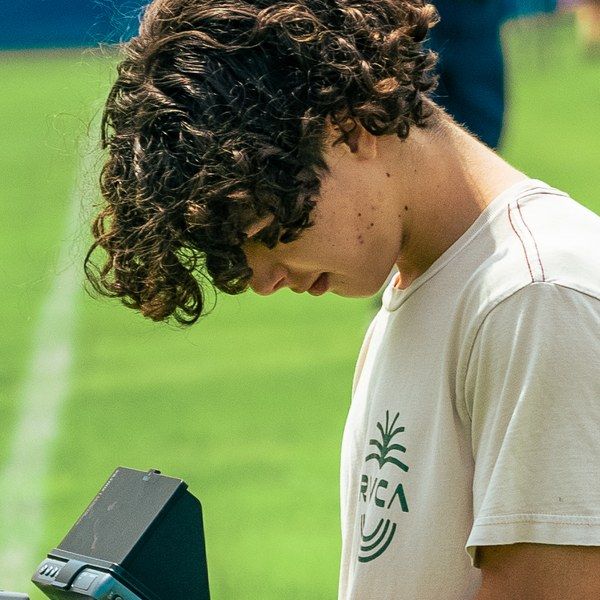
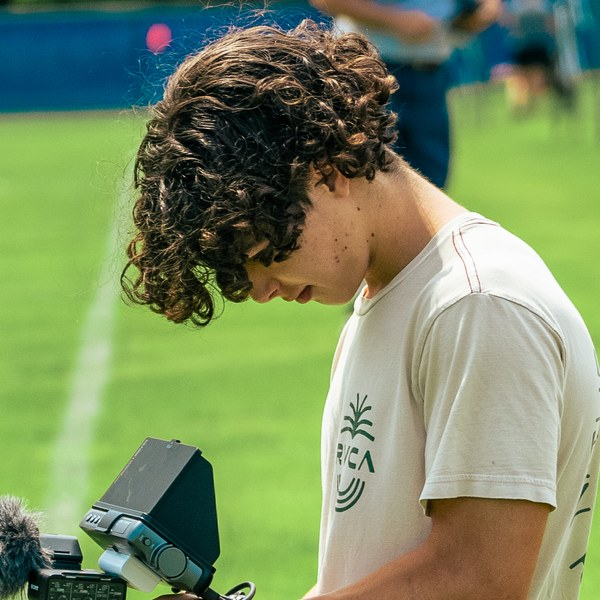
Card: zoom-out face-centered photo + QR overlay
- Re-crop headshot: zoomed out, face centered (was too high)
- Add branded green QR (verified -> /card) with a "Show QR" overlay for
  in-person scanning; fix [hidden] being overridden by display:flex
- Footer now has Show QR + Share outlined buttons

diff --git a/card/index.html b/card/index.html
@@ -193,20 +193,48 @@
   .action .meta{display:flex;flex-direction:column;align-items:flex-start;line-height:1.25;min-width:0;font-size:14px;font-weight:700}
   .action .meta small{font-size:11px;font-weight:500;color:var(--gray);letter-spacing:.01em;overflow:hidden;text-overflow:ellipsis;white-space:nowrap;max-width:100%;text-transform:none}
 
-  .footer{margin-top:22px;display:flex;flex-direction:column;align-items:center;gap:14px}
-  .share{
-    background:none;border:none;cursor:pointer;
+  .footer{margin-top:22px;display:flex;flex-direction:column;align-items:center;gap:16px}
+  .footer-actions{display:flex;gap:9px;align-items:center;justify-content:center;flex-wrap:wrap}
+  .ghost{
+    background:none;border:1px solid var(--border);cursor:pointer;
     font-family:inherit;font-size:11px;font-weight:700;
-    letter-spacing:.14em;text-transform:uppercase;
+    letter-spacing:.13em;text-transform:uppercase;
     color:var(--green);
     display:inline-flex;align-items:center;gap:8px;
-    padding:6px 4px;
-    transition:color .2s;
+    padding:11px 16px;
+    transition:border-color .18s,background .18s;
+    -webkit-tap-highlight-color:transparent;
   }
-  .share:hover{color:var(--green-dk)}
-  .share svg{width:14px;height:14px}
+  .ghost:hover{border-color:var(--green);background:var(--off-white)}
+  .ghost svg{width:14px;height:14px}
   .sig{font-size:11px;color:var(--gray-lt);letter-spacing:.04em}
   .sig b{color:var(--green);font-weight:700}
+
+  /* QR overlay */
+  .qr-modal{
+    position:fixed;inset:0;z-index:40;
+    display:flex;align-items:center;justify-content:center;padding:24px;
+    background:rgba(17,17,17,.55);
+    -webkit-backdrop-filter:blur(3px);backdrop-filter:blur(3px);
+    opacity:0;animation:fade .25s var(--ease) forwards;
+  }
+  .qr-modal[hidden]{display:none}  /* author display:flex would otherwise override [hidden] */
+  @keyframes fade{to{opacity:1}}
+  .qr-sheet{
+    position:relative;background:var(--white);
+    border:1px solid var(--border);border-top:4px solid var(--green);
+    padding:32px 28px 24px;text-align:center;width:100%;max-width:300px;
+    box-shadow:0 30px 70px -30px rgba(17,17,17,.55);
+  }
+  .qr-close{
+    position:absolute;top:6px;right:12px;
+    background:none;border:none;cursor:pointer;
+    font-size:26px;line-height:1;color:var(--gray-lt);
+  }
+  .qr-close:hover{color:var(--ink)}
+  .qr-kicker{font-size:11px;font-weight:700;letter-spacing:.2em;text-transform:uppercase;color:var(--gray);margin-bottom:18px}
+  .qr-img{width:218px;height:218px;display:block;margin:0 auto;image-rendering:pixelated}
+  .qr-sub{margin-top:16px;font-size:12px;color:var(--gray-lt);letter-spacing:.03em}
 
   .toast{
     position:fixed;left:50%;bottom:26px;transform:translateX(-50%) translateY(20px);
@@ -247,13 +275,28 @@
     <nav class="actions reveal" id="actions" style="animation-delay:.46s"></nav>
 
     <div class="footer reveal" style="animation-delay:.54s">
-      <button class="share" id="share" hidden>
-        <svg viewBox="0 0 24 24" fill="none" stroke="currentColor" stroke-width="2" stroke-linecap="round" stroke-linejoin="round"><path d="M4 12v8a2 2 0 0 0 2 2h12a2 2 0 0 0 2-2v-8"/><path d="M16 6l-4-4-4 4"/><path d="M12 2v13"/></svg>
-        Share my card
-      </button>
+      <div class="footer-actions">
+        <button class="ghost" id="show-qr">
+          <svg viewBox="0 0 24 24" fill="none" stroke="currentColor" stroke-width="2" stroke-linecap="round" stroke-linejoin="round"><rect x="3" y="3" width="7" height="7"/><rect x="14" y="3" width="7" height="7"/><rect x="3" y="14" width="7" height="7"/><path d="M14 14h3v3M21 14v3M14 21h3"/></svg>
+          Show QR
+        </button>
+        <button class="ghost" id="share" hidden>
+          <svg viewBox="0 0 24 24" fill="none" stroke="currentColor" stroke-width="2" stroke-linecap="round" stroke-linejoin="round"><path d="M4 12v8a2 2 0 0 0 2 2h12a2 2 0 0 0 2-2v-8"/><path d="M16 6l-4-4-4 4"/><path d="M12 2v13"/></svg>
+          Share
+        </button>
+      </div>
       <p class="sig">Tap <b>save</b> so you don't lose me.</p>
     </div>
   </main>
+
+  <div class="qr-modal" id="qr-modal" hidden>
+    <div class="qr-sheet">
+      <button class="qr-close" id="qr-close" aria-label="Close">&times;</button>
+      <p class="qr-kicker">Scan to open my card</p>
+      <img class="qr-img" src="qr.png" alt="QR code linking to elzingacreativestudio.com/card" />
+      <p class="qr-sub">elzingacreativestudio.com/card</p>
+    </div>
+  </div>
 
   <div class="toast" id="toast"></div>
 
@@ -404,6 +447,14 @@ if (navigator.share){
     navigator.share({ title: fullName, text: `${fullName} — ${CARD.org}`, url: location.href }).catch(()=>{});
   });
 }
+
+/* QR overlay — let someone scan your card in person */
+const qrModal = $("qr-modal");
+const closeQR = ()=> qrModal.hidden = true;
+$("show-qr").addEventListener("click", ()=> qrModal.hidden = false);
+$("qr-close").addEventListener("click", closeQR);
+qrModal.addEventListener("click", (e)=>{ if (e.target === qrModal) closeQR(); });
+document.addEventListener("keydown", (e)=>{ if (e.key === "Escape") closeQR(); });
 </script>
 </body>
 </html>
